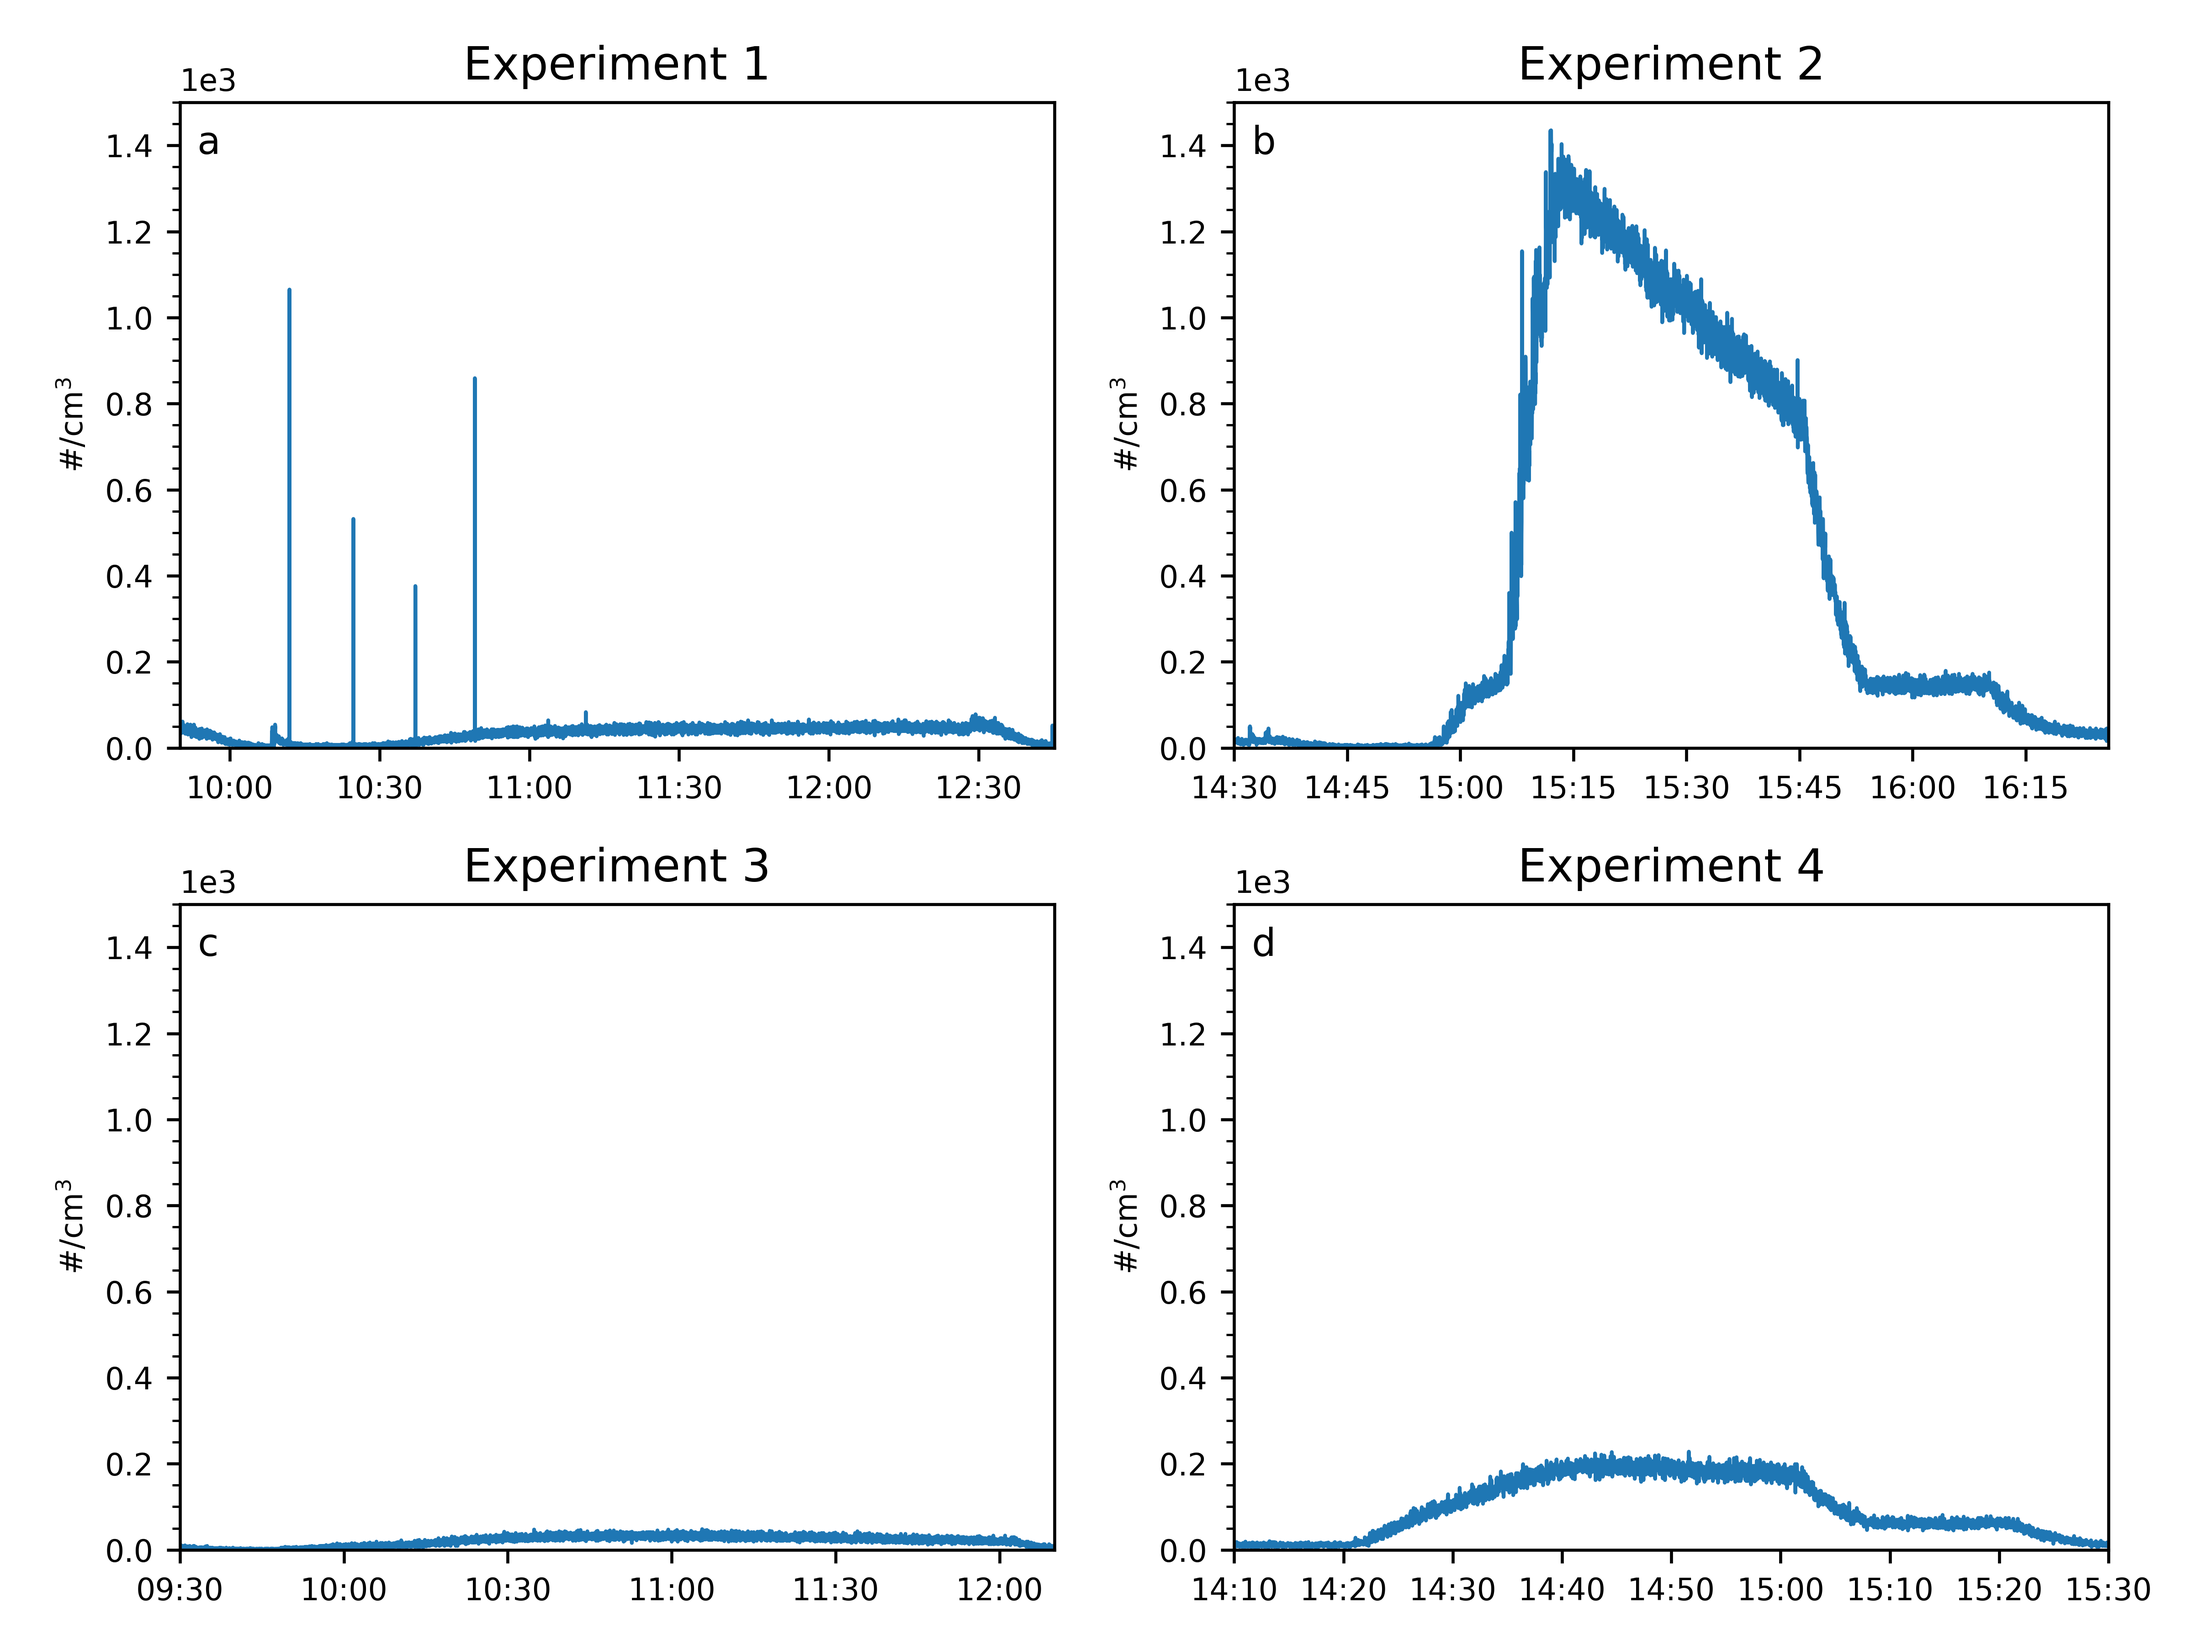
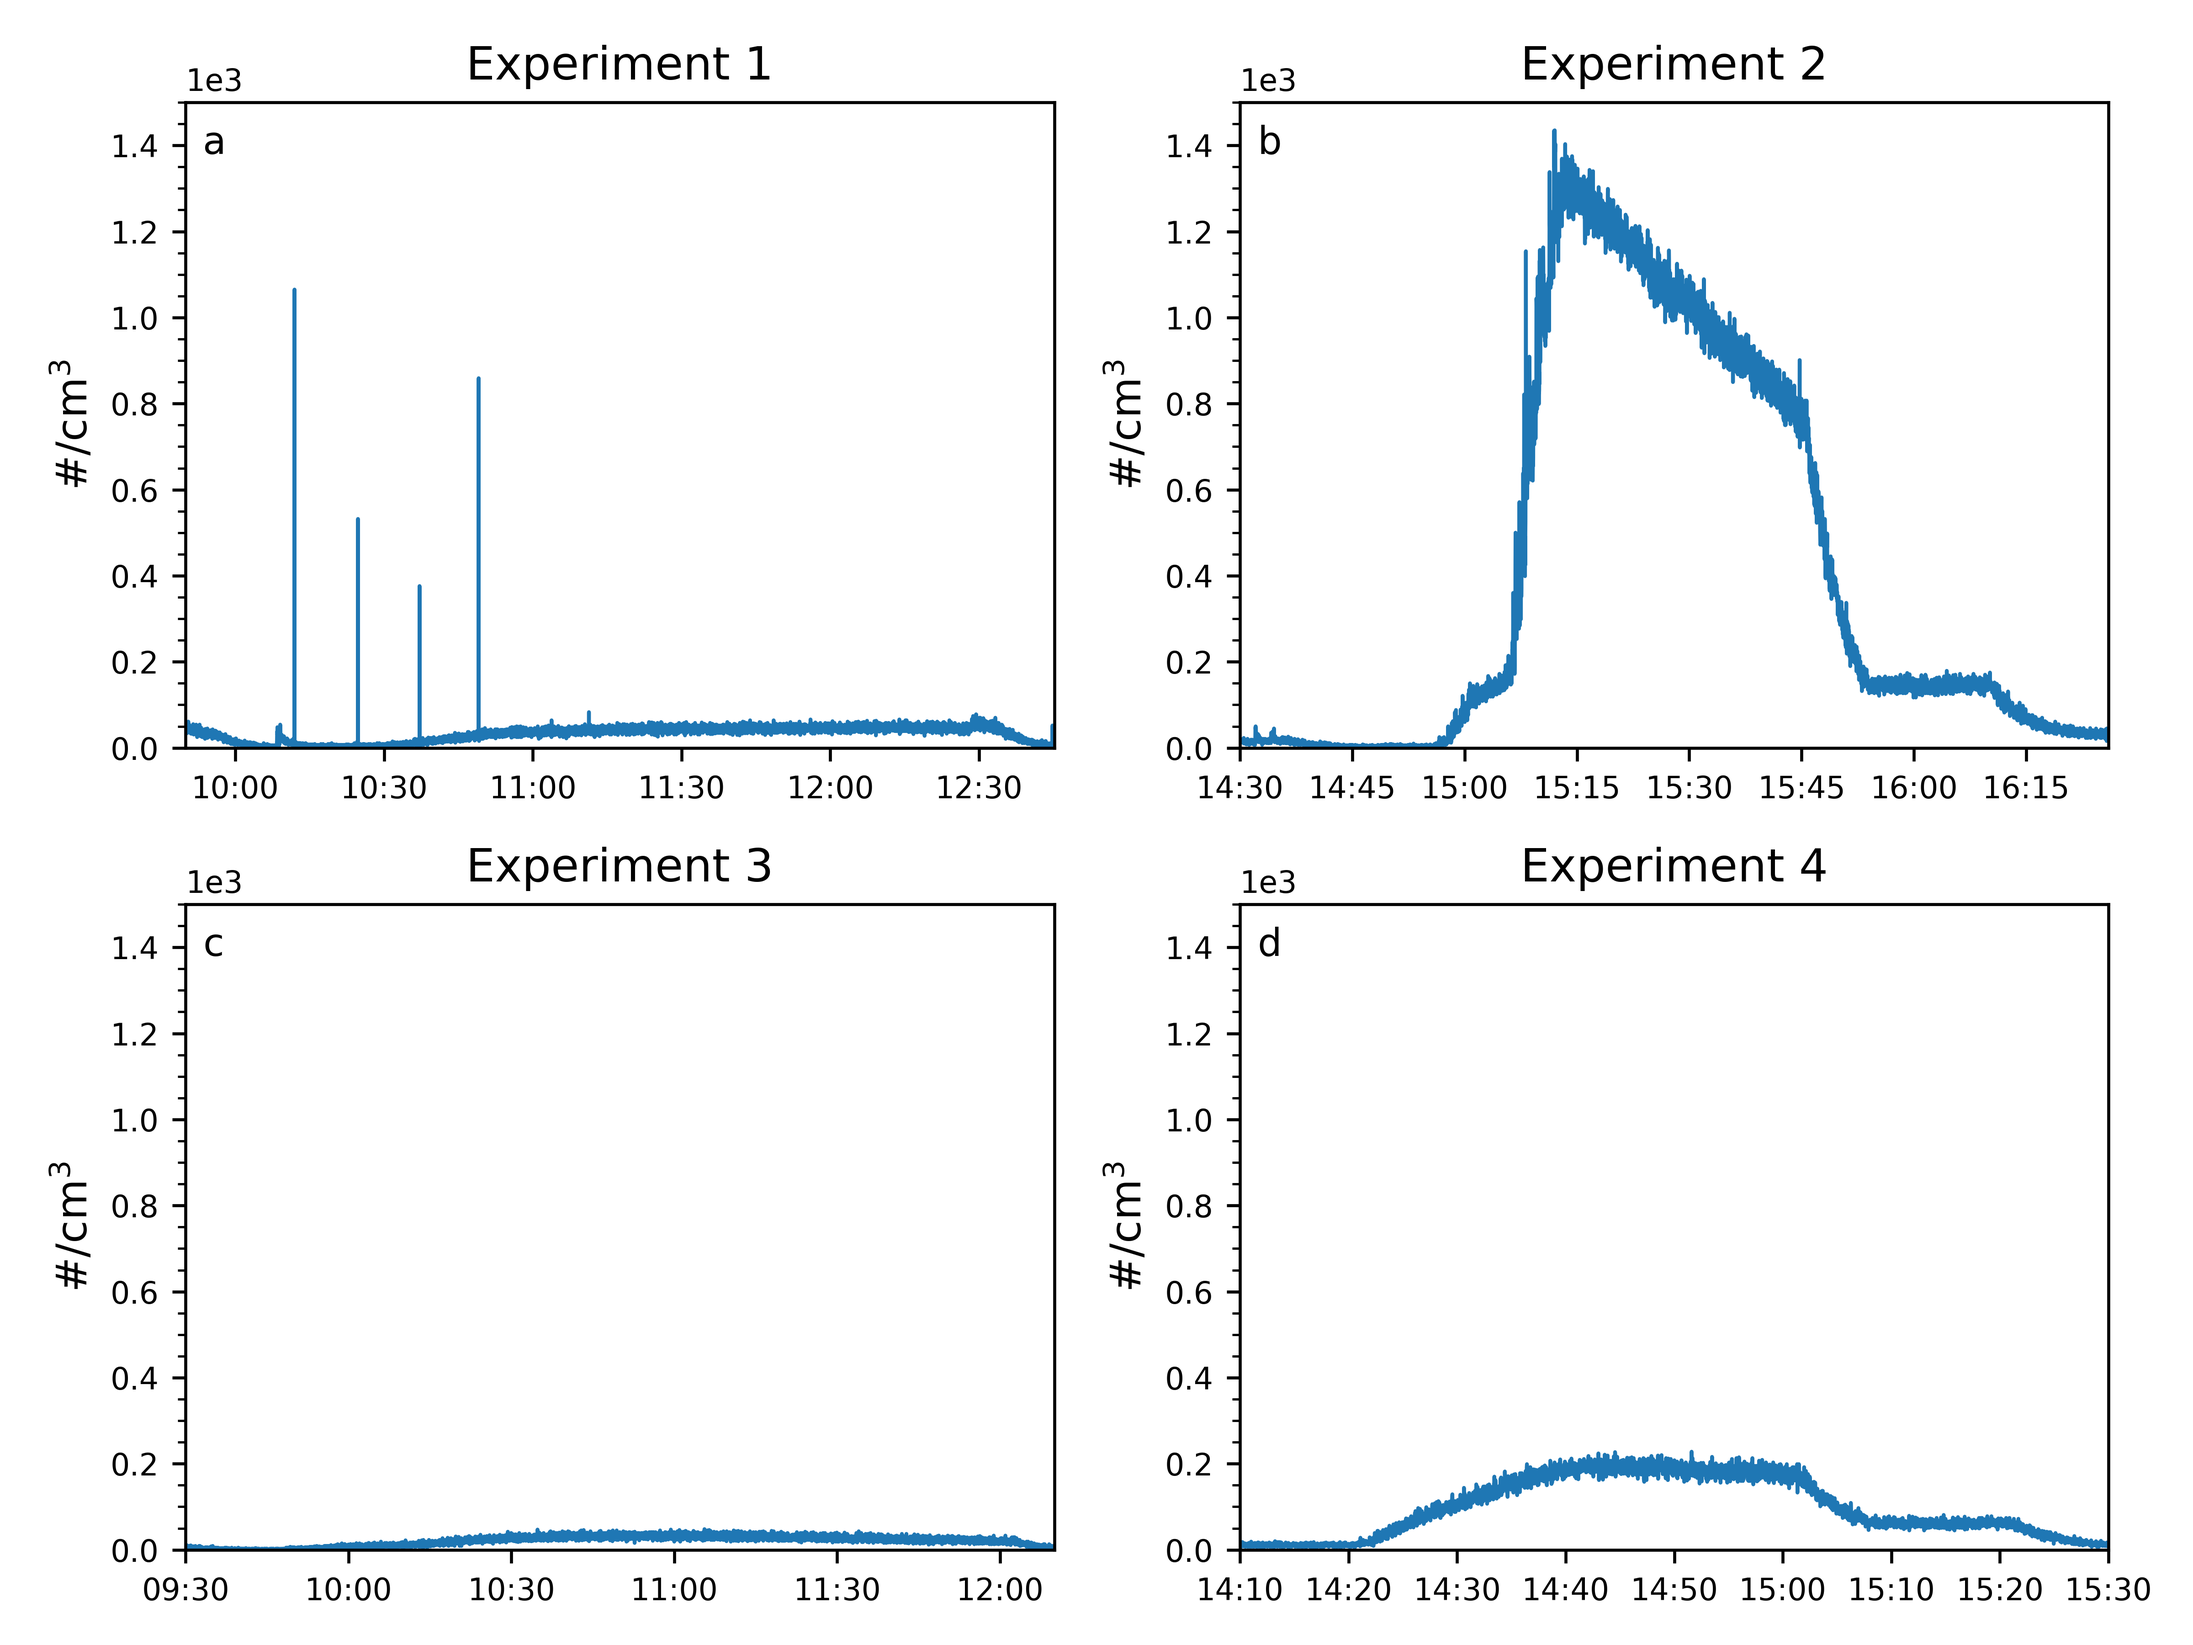
new
new

diff --git a/Laura.py b/Laura.py
@@ -85,9 +85,9 @@ def read_LCS_data_OPC5000(path, time_label, names, sep):
                df = pd.read_table(f, sep = sep)
 
                df[time_label] = format_timestamps(df[time_label], '%Y-%m-%d %H:%M:%S', '%d/%m/%Y %H:%M')
-               keys = ['PM5000S_2_PN0.3', 'PM5000S_2_PN0.5','PM5000S_2_PN1','PM5000S_2_PN2.5','PM5000S_2_PN5','PM5000S_2_PN10']
+               keys = ['PN<1','PN<2.5','PN<5','PN<10']
                for key in keys: 
-                   df[key] = pd.to_numeric(df[key]) / 1000
+                   df[key] = pd.to_numeric(df[key])
 
             data_dict[name] =df 
 

diff --git a/plot_functions.py b/plot_functions.py
@@ -115,7 +115,7 @@ def plot_LCS_single(ax, data_dict, dict_key, start_time, end_time, concentration
 
     ax.legend(frameon = False)
     ax.tick_params(axis='both', which='major', direction='out', bottom=True, left=True, labelsize=8)
-    ax.set_ylabel(ylabel, fontsize = 8)
+    ax.set_ylabel(ylabel, fontsize = 11)
 
 def plot_LCS(ax, fig, data_dict, dict_keys, start_time, end_time, concentration, ylabel):
     for i, dict_key in enumerate(dict_keys):
@@ -135,3 +135,6 @@ def plot_LCS_WS(ax, fig, data_dict, start_time, end_time, titles):
 
     
     fig.supxlabel('Time', fontsize=10)
+
+
+
